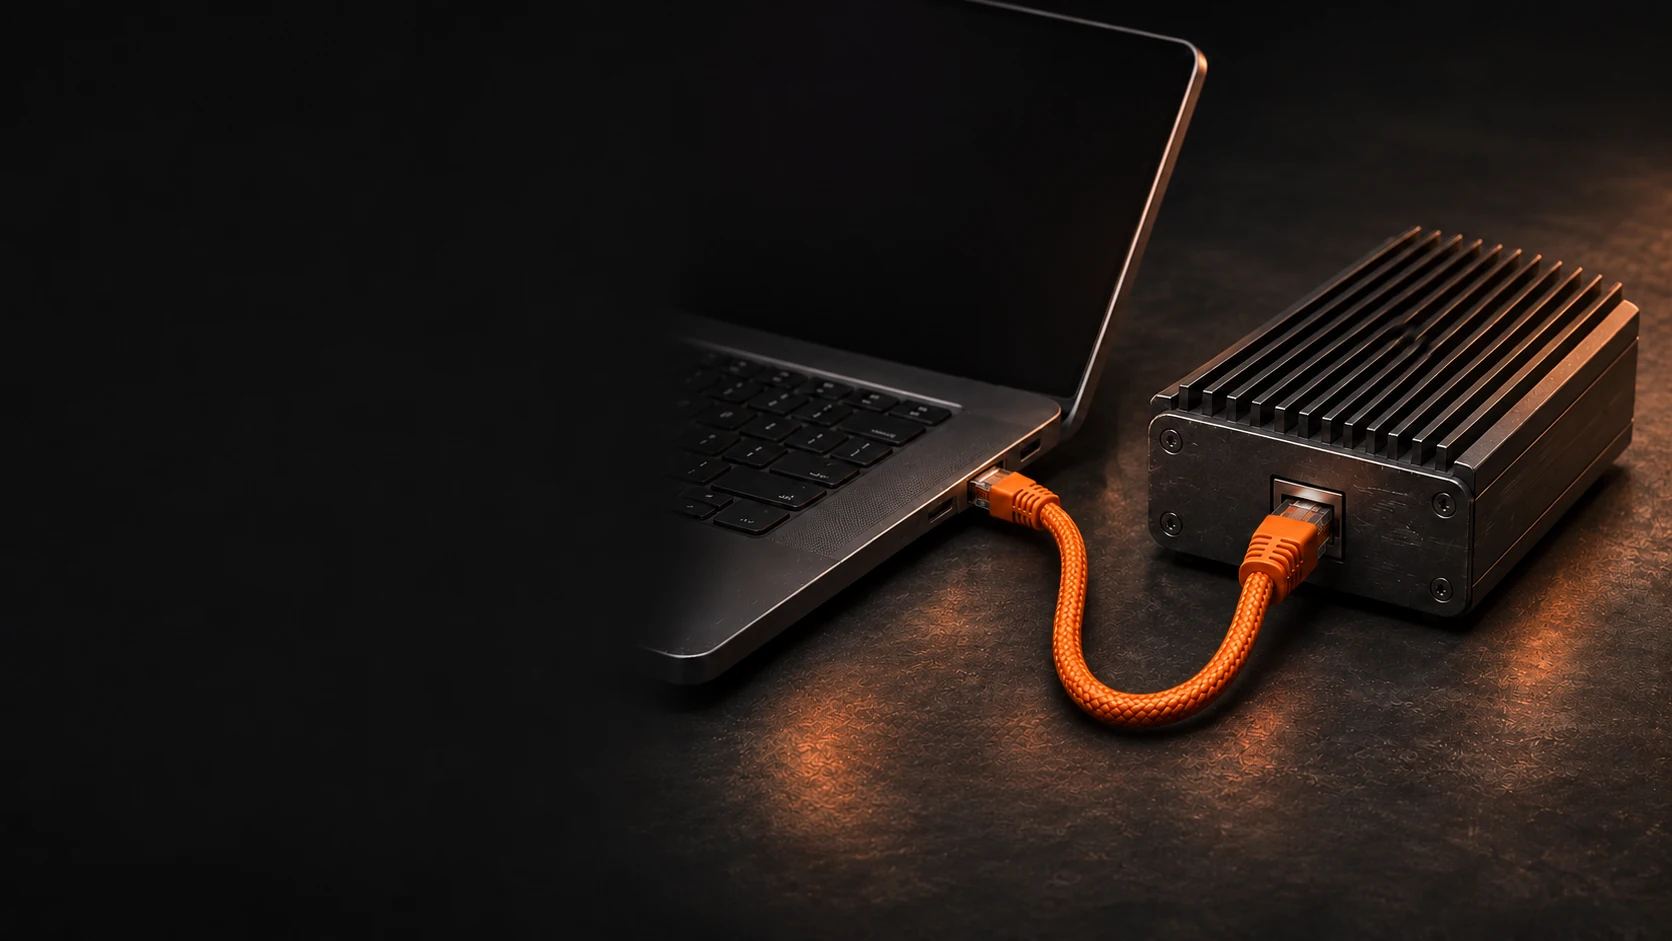
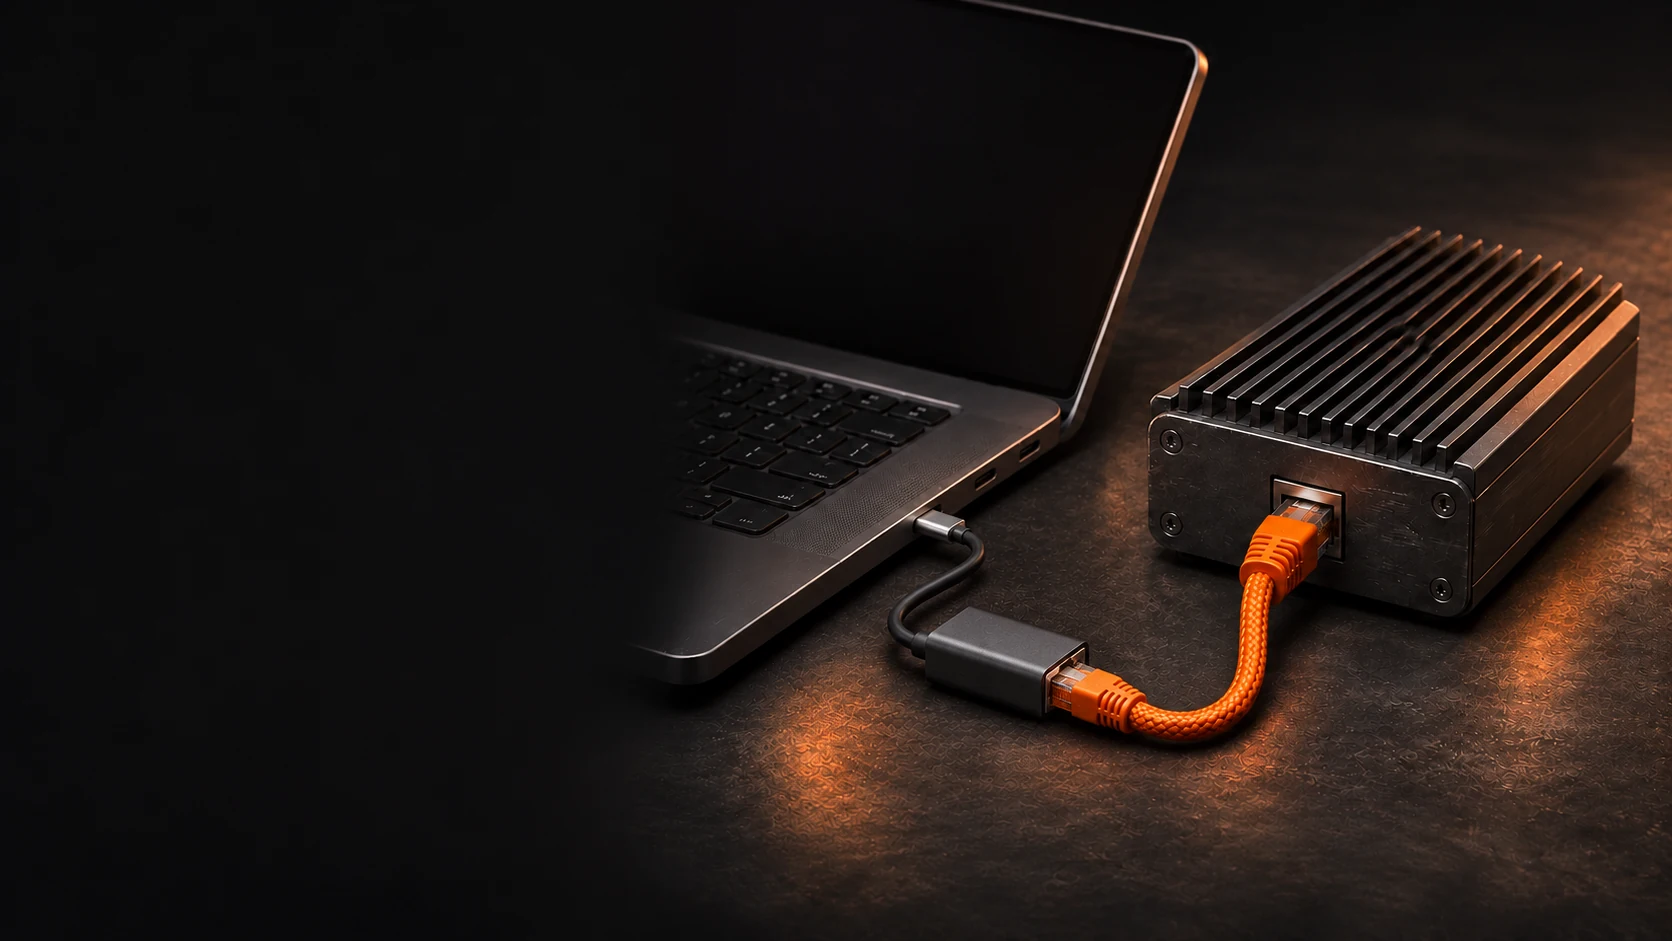
fix(site): show usb-c ethernet and document the go build

diff --git a/index.html b/index.html
@@ -44,8 +44,8 @@
         </div>
       </div>
       <picture class="hero-media">
-        <source media="(max-width: 53rem)" srcset="assets/workbench-mobile.webp">
-        <img src="assets/workbench-hero.webp" width="1672" height="941" alt="A laptop and a small desktop PC joined by an orange Ethernet cable." fetchpriority="high">
+        <source media="(max-width: 53rem)" srcset="assets/workbench-mobile.webp?v=usb-c">
+        <img src="assets/workbench-hero.webp?v=usb-c" width="1672" height="941" alt="A laptop connected to a small desktop PC through a USB-C Ethernet adapter and an orange cable." fetchpriority="high">
       </picture>
     </section>
 
@@ -81,18 +81,20 @@
       <div class="wrap install-grid">
         <div>
           <h2 id="install-title">Start with the repo you already have.</h2>
-          <p>The public beta supports Docker Compose, common Node development scripts, and explicit TOML for custom start commands.</p>
-          <p>On your Linux server, have SSH access, Python 3.11+, Docker Engine, and the Compose plugin. On your computer, use Python 3.11+, Git, OpenSSH, and uv.</p>
+          <p>Remote Dev supports Docker Compose, common Node development scripts, and a TOML file for custom start commands.</p>
+          <p>Build the Go release candidate on macOS or Linux with Go 1.26 or newer, Git, and OpenSSH. Your Linux server needs Docker Engine and the Compose plugin.</p>
           <a class="text-link" href="https://github.com/Ross-cripto/remote-dev#quick-start">Read the setup guide</a>
         </div>
         <div class="runbook">
           <div class="runbook-header">
-            <h3>Public beta</h3>
+            <h3>Build from source</h3>
             <button type="button" id="copy-command" hidden>Copy commands</button>
           </div>
-          <pre id="install-command" tabindex="0"><code>uv tool install 'git+https://github.com/Ross-cripto/remote-dev.git'
-remote-dev connect devbox</code></pre>
-          <p class="prompt-note">Replace <code>devbox</code> with your SSH alias or <code>user@server</code>. From your project’s Git worktree, run <code>remote-dev up</code>.</p>
+          <pre id="install-command" tabindex="0"><code>git clone https://github.com/Ross-cripto/remote-dev.git
+cd remote-dev
+./scripts/build-native.sh "$HOME/.local/bin/remote-dev"
+export PATH="$HOME/.local/bin:$PATH"</code></pre>
+          <p class="prompt-note">Run <code>remote-dev connect devbox</code> with your SSH alias or <code>user@server</code>. From your project’s Git worktree, run <code>remote-dev up</code>.</p>
           <p class="copy-feedback" id="copy-feedback" role="status"></p>
         </div>
       </div>
